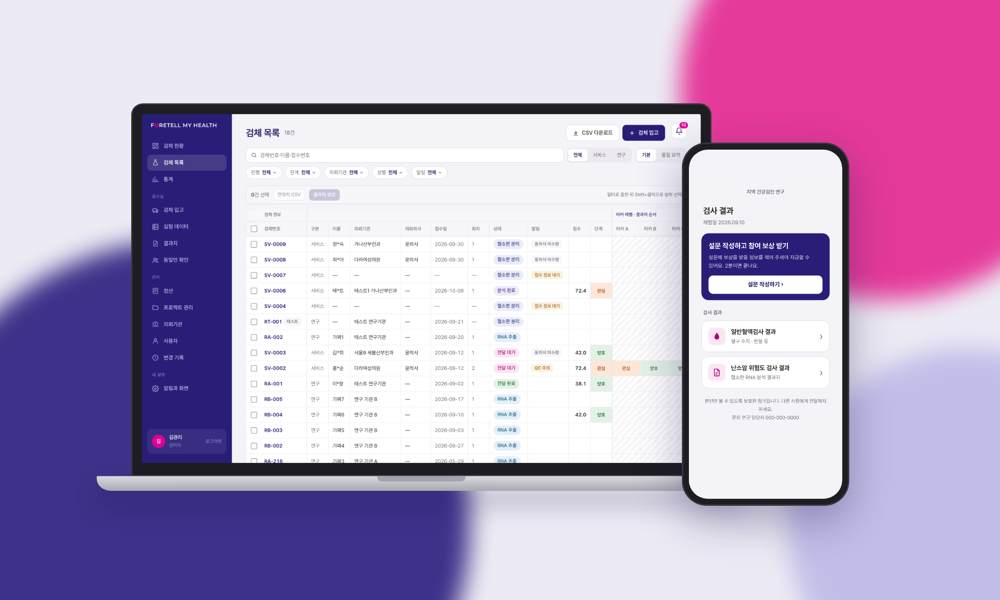
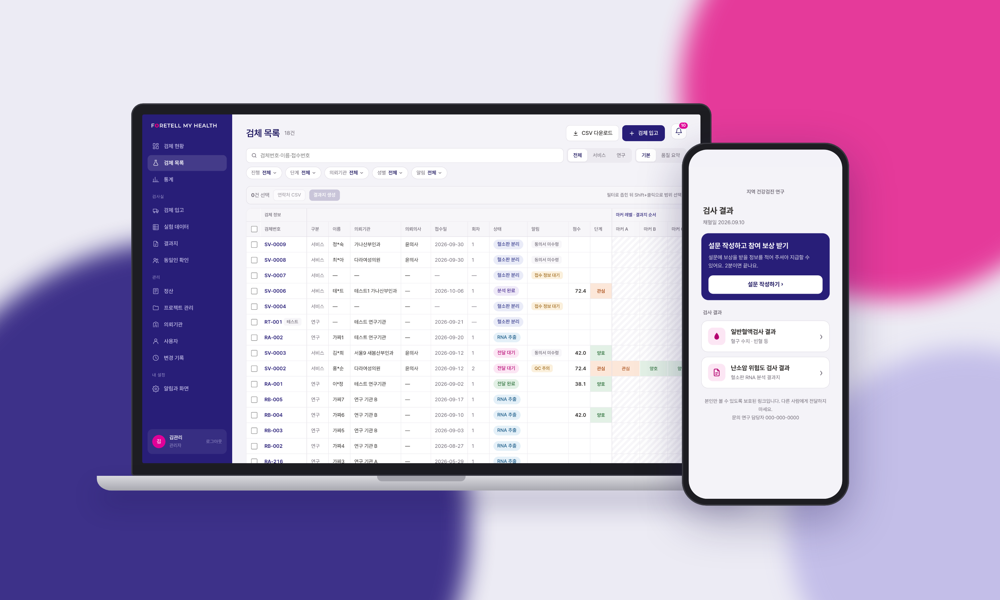
Update home page intro, project order and descriptions
- New Product Designer intro (EN/KR)
- Order: Foretell Lab Portal, Cancer Risk Report, SafeStep, Base
- One-line problem-focused descriptions on both languages
- Lab Portal thumbnail from the case study banner (5:3)

diff --git a/kr.html b/kr.html
@@ -4,10 +4,10 @@ title: Home — 박예진
 ---
 <header id="header">
     <div class="container px-5 mb-5">
-        <h1>안녕하세요, UI/UX 디자이너 박예진입니다.</h1>
+        <h1>안녕하세요, Product Designer 박예진입니다.</h1>
         <!-- <p>I'm a UX Researcher and Designer based in the Boston area with over 3 years of experience. I have a Master’s in Design Engineering from Harvard University and have worked at Harvard University and WalkyDoggy Inc. I specialize in creating intuitive and inclusive digital experiences.</p> -->
         <!-- <p>안녕하세요, 저는 UI/UX 디자이너 <strong>박예진</strong>입니다.</p> -->
-        <p>사용자에게 힘을 실어주고 영감을 주는, 접근성과 사용자 중심 경험을 만드는 디자이너입니다.</p>
+        <p>복잡한 정보와 업무를 사용자가 쉽고 자연스럽게 이해할 수 있도록 설계합니다.</p>
     </div>
 </header>
 <div id="work">
@@ -16,11 +16,11 @@ title: Home — 박예진
             <div class="col-sm-6 text-center px-4 my-4">
                 <a class="d-inline-block" href="labportal-kr">
                     <div class="hovereffect">
-                        <img class="img-fluid" src="img/banners/work/labportal@1x.png" srcset="img/banners/work/labportal@2x.png 2x, img/banners/work/labportal@1x.png 1x" alt="Lab Operations Portal banner" />
+                        <img class="img-fluid" src="img/banners/work/labportal@1x.png" srcset="img/banners/work/labportal@2x.png 2x, img/banners/work/labportal@1x.png 1x" alt="Foretell Lab Portal banner" />
                         <div class="overlayWork"></div>
                         <div class="description">
-                            <h2>Lab Operations Portal <svg viewBox="0 0 24 24" fill="currentColor" style="width: 0.7em; height: 0.7em; opacity: 0.85; vertical-align: -0.05em;" aria-hidden="true"><path d="M12 1.5C8.41 1.5 5.5 4.41 5.5 8v2.5H5c-1.1 0-2 .9-2 2V21c0 1.1.9 2 2 2h14c1.1 0 2-.9 2-2v-8.5c0-1.1-.9-2-2-2h-.5V8c0-3.59-2.91-6.5-6.5-6.5zm-4.5 6.5c0-2.48 2.02-4.5 4.5-4.5s4.5 2.02 4.5 4.5v2.5h-9V8zm4.5 10c-1.1 0-2-.9-2-2s.9-2 2-2 2 .9 2 2-.9 2-2 2z"/></svg></h2>
-                            <p>Product Design + Internal Tool</p>
+                            <h2>Foretell Lab Portal <svg viewBox="0 0 24 24" fill="currentColor" style="width: 0.7em; height: 0.7em; opacity: 0.85; vertical-align: -0.05em;" aria-hidden="true"><path d="M12 1.5C8.41 1.5 5.5 4.41 5.5 8v2.5H5c-1.1 0-2 .9-2 2V21c0 1.1.9 2 2 2h14c1.1 0 2-.9 2-2v-8.5c0-1.1-.9-2-2-2h-.5V8c0-3.59-2.91-6.5-6.5-6.5zm-4.5 6.5c0-2.48 2.02-4.5 4.5-4.5s4.5 2.02 4.5 4.5v2.5h-9V8zm4.5 10c-1.1 0-2-.9-2-2s.9-2 2-2 2 .9 2 2-.9 2-2 2z"/></svg></h2>
+                            <p>검사 데이터와 결과지 업무를 하나로 연결한 운영 포털</p>
                             <p style="font-size: 0.85em; opacity: 0.8; margin-top: 0.5rem;"><em>비밀번호 필요 — 문의 후 접근 가능</em></p>
                         </div>
                     </div>
@@ -33,7 +33,7 @@ title: Home — 박예진
                         <div class="overlayWork"></div>
                         <div class="description">
                             <h2>Cancer Risk Report Experience <svg viewBox="0 0 24 24" fill="currentColor" style="width: 0.7em; height: 0.7em; opacity: 0.85; vertical-align: -0.05em;" aria-hidden="true"><path d="M12 1.5C8.41 1.5 5.5 4.41 5.5 8v2.5H5c-1.1 0-2 .9-2 2V21c0 1.1.9 2 2 2h14c1.1 0 2-.9 2-2v-8.5c0-1.1-.9-2-2-2h-.5V8c0-3.59-2.91-6.5-6.5-6.5zm-4.5 6.5c0-2.48 2.02-4.5 4.5-4.5s4.5 2.02 4.5 4.5v2.5h-9V8zm4.5 10c-1.1 0-2-.9-2-2s.9-2 2-2 2 .9 2 2-.9 2-2 2z"/></svg></h2>
-                            <p>Product Design + Service Design</p>
+                            <p>복잡한 암 위험도 검사 결과를 이해하기 쉽게 전달하는 경험 설계</p>
                             <p style="font-size: 0.85em; opacity: 0.8; margin-top: 0.5rem;"><em>비밀번호 필요 — 문의 후 접근 가능</em></p>
                         </div>
                     </div>
@@ -46,7 +46,7 @@ title: Home — 박예진
                         <div class="overlayWork"></div>
                         <div class="description">
                             <h2>SafeStep</h2>
-                            <p>iOS Mobile Develop</p>
+                            <p>시각장애인의 차량 하차 후 보행을 돕는 모바일 경험</p>
                         </div>
                     </div>
                 </a>
@@ -58,7 +58,7 @@ title: Home — 박예진
                         <div class="overlayWork"></div>
                         <div class="description">
                             <h2>Base</h2>
-                            <p>3D Design + Digital Interface</p>
+                            <p>센서 기반 실시간 수질 모니터링 시스템</p>
                         </div>
                     </div>
                 </a>

diff --git a/index.html b/index.html
@@ -6,7 +6,7 @@ title: Home — Yejin Cathy Park
     <div class="container px-5 mb-5">
         <h1>Hello, I'm Cathy.</h1>
         <!-- <p>I'm a UX Researcher and Designer based in the Boston area with over 3 years of experience. I have a Master’s in Design Engineering from Harvard University and have worked at Harvard University and WalkyDoggy Inc. I specialize in creating intuitive and inclusive digital experiences.</p> -->
-        <p>A designer dedicated to creating accessible, user-centered experiences that empower and inspire.</p>
+        <p>I'm a Product Designer who turns complex information and workflows into clear, intuitive digital experiences.</p>
     </div>
 </header>
 <div id="work">
@@ -15,11 +15,11 @@ title: Home — Yejin Cathy Park
             <div class="col-sm-6 text-center px-4 my-4">
                 <a class="d-inline-block" href="labportal">
                     <div class="hovereffect">
-                        <img class="img-fluid" src="img/banners/work/labportal@1x.png" srcset="img/banners/work/labportal@2x.png 2x, img/banners/work/labportal@1x.png 1x" alt="Lab Operations Portal banner" />
+                        <img class="img-fluid" src="img/banners/work/labportal@1x.png" srcset="img/banners/work/labportal@2x.png 2x, img/banners/work/labportal@1x.png 1x" alt="Foretell Lab Portal banner" />
                         <div class="overlayWork"></div>
                         <div class="description">
-                            <h2>Lab Operations Portal <svg viewBox="0 0 24 24" fill="currentColor" style="width: 0.7em; height: 0.7em; opacity: 0.85; vertical-align: -0.05em;" aria-hidden="true"><path d="M12 1.5C8.41 1.5 5.5 4.41 5.5 8v2.5H5c-1.1 0-2 .9-2 2V21c0 1.1.9 2 2 2h14c1.1 0 2-.9 2-2v-8.5c0-1.1-.9-2-2-2h-.5V8c0-3.59-2.91-6.5-6.5-6.5zm-4.5 6.5c0-2.48 2.02-4.5 4.5-4.5s4.5 2.02 4.5 4.5v2.5h-9V8zm4.5 10c-1.1 0-2-.9-2-2s.9-2 2-2 2 .9 2 2-.9 2-2 2z"/></svg></h2>
-                            <p>Turning scattered spreadsheets into one lab operations portal</p>
+                            <h2>Foretell Lab Portal <svg viewBox="0 0 24 24" fill="currentColor" style="width: 0.7em; height: 0.7em; opacity: 0.85; vertical-align: -0.05em;" aria-hidden="true"><path d="M12 1.5C8.41 1.5 5.5 4.41 5.5 8v2.5H5c-1.1 0-2 .9-2 2V21c0 1.1.9 2 2 2h14c1.1 0 2-.9 2-2v-8.5c0-1.1-.9-2-2-2h-.5V8c0-3.59-2.91-6.5-6.5-6.5zm-4.5 6.5c0-2.48 2.02-4.5 4.5-4.5s4.5 2.02 4.5 4.5v2.5h-9V8zm4.5 10c-1.1 0-2-.9-2-2s.9-2 2-2 2 .9 2 2-.9 2-2 2z"/></svg></h2>
+                            <p>Unifying lab operations and report workflows in one portal</p>
                             <p style="font-size: 0.85em; opacity: 0.8; margin-top: 0.5rem;"><em>Password protected — contact for access</em></p>
                         </div>
                     </div>
@@ -45,7 +45,7 @@ title: Home — Yejin Cathy Park
                         <div class="overlayWork"></div>
                         <div class="description">
                             <h2>SafeStep</h2>
-                            <p>Enhancing post-rideshare navigation for visually impaired users</p>
+                            <p>Helping visually impaired users navigate safely after rideshare drop-offs</p>
                         </div>
                     </div>
                 </a>
@@ -57,7 +57,7 @@ title: Home — Yejin Cathy Park
                         <div class="overlayWork"></div>
                         <div class="description">
                             <h2>Base</h2>
-                            <p>Detecting real-time water contamination with a sensor</p>
+                            <p>Monitoring water quality in real time through connected sensors and digital interfaces</p>
                         </div>
                     </div>
                 </a>
